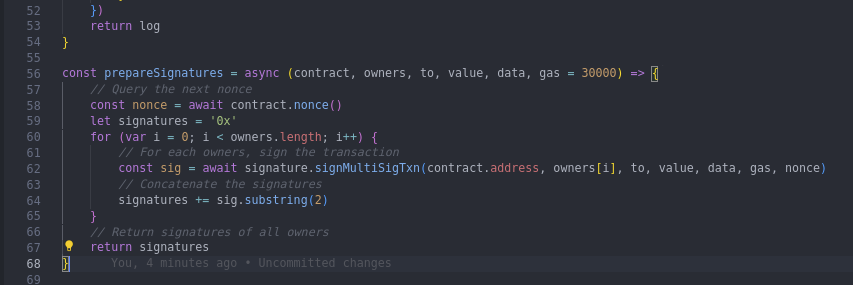
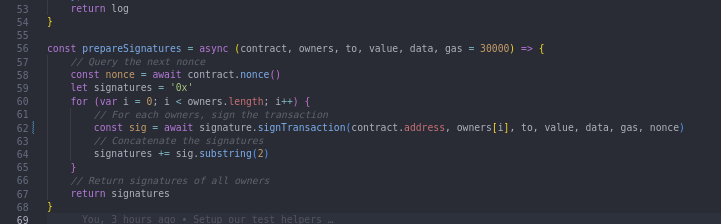
add write tests and revert tests

diff --git a/blog/03-05-2023-how-to-write-a-multi-signatures-contract-on-celo-using-hardhat-part-2-2/how-to-write-a-multi-signatures-contract-on-celo-using-hardhat-part-2-2.md b/blog/03-05-2023-how-to-write-a-multi-signatures-contract-on-celo-using-hardhat-part-2-2/how-to-write-a-multi-signatures-contract-on-celo-using-hardhat-part-2-2.md
@@ -310,7 +310,7 @@ const prepareSignatures = async (contract, owners, to, value, data, gas = 30000)
     let signatures = '0x'
     for (var i = 0; i < owners.length; i++) {
         // For each owners, sign the transaction
-        const sig = await signature.signMultiSigTxn(contract.address, owners[i], to, value, data, gas, nonce)
+        const sig = await signature.signTransaction(contract.address, owners[i], to, value, data, gas, nonce)
         // Concatenate the signatures
         signatures += sig.substring(2)
     }
@@ -684,6 +684,89 @@ npx hardhat test
 Doing so, we should have the following result:
 
 ![Run tests again](./images/npx_hardhat_test_part3.png)
+
+### Add the first write function test
+
+Now let's add the first test for a write function. We so going back to the `test/CeloMultiSig.test.js` file and add the following code:
+
+```javascript
+  it('Can add a new owner', async function () {
+    await Helper.test.addOwner(contract, owner01, [owner01, owner02, owner03], user01.address, undefined, undefined, ['OwnerAdded'])
+  })
+
+  it('Can add a new owner and then use it to sign a new transaction replaceOwner', async function () {
+    await Helper.test.addOwner(contract, owner01, [owner01, owner02, owner03], user01.address, undefined, undefined, [
+      'OwnerAdded',
+    ])
+    await Helper.test.replaceOwner(contract, owner01, [user01, owner02, owner03], user02.address, owner01.address, undefined, undefined, ['OwnerRemoved', 'OwnerAdded'])
+  })
+
+  it('Can add a new owner and then use it to sign a new transaction changeThreshold', async function () {
+    await Helper.test.addOwner(contract, owner01, [owner01, owner02, owner03], user01.address, undefined, undefined, ['OwnerAdded'])
+    await Helper.test.changeThreshold(contract, owner01, [user01, owner02, owner03], 3, undefined, undefined, ['ThresholdChanged'])
+  })
+
+  it('Can add a new owner and then use it to sign a new transaction removeOwner', async function () {
+    await Helper.test.addOwner(contract, owner01, [owner01, owner02, owner03], user01.address, undefined, undefined, ['OwnerAdded'])
+    await Helper.test.removeOwner(contract, owner01, [user01, owner02, owner03], owner01.address, undefined, undefined, ['OwnerRemoved'])
+  })
+```
+
+The result should look like this:
+
+![Add the first write function test](./images/build_test_file_part3.png)
+
+```bash
+npx hardhat test
+```
+
+Doing so, we should have the following result:
+
+![Run tests again](./images/npx_hardhat_test_part4.png)
+
+### Add tests expecting failures
+
+Time to add some tests expecting the transaction to fail. So going back to the `test/CeloMultiSig.test.js` file and add the following code:
+
+```javascript
+  it('Cannot add a new owner with just 10k gas', async function () {
+    await Helper.test.addOwner(contract, owner01, [owner01, owner02, owner03], user01.address, 10000, Helper.errors.NOT_ENOUGH_GAS)
+  })
+
+  it('Cannot add a new owner with 3x the signature of owner01', async function () {
+    await Helper.test.addOwner(contract, owner01, [owner01, owner01, owner01], user01.address, 30000, Helper.errors.OWNER_ALREADY_SIGNED
+    )
+  })
+
+  it('Cannot remove all owners', async function () {
+    await Helper.test.removeOwner(contract, owner01, [owner02, owner03], owner01.address, undefined, undefined, ['OwnerRemoved'])
+    await Helper.test.removeOwner(contract, owner02, [owner02, owner03], owner03.address, undefined, Helper.errors.OWNER_COUNT_BELOW_THRESHOLD, ['TransactionFailed'])
+    await Helper.test.removeOwner(contract, owner03, [owner02, owner03], owner02.address, undefined, Helper.errors.OWNER_COUNT_BELOW_THRESHOLD, ['TransactionFailed'])
+  })
+
+  it('Cannot reuse a signature', async function () {
+    const data = contract.interface.encodeFunctionData('addOwner(address)', [user02.address])
+    const signatures = await Helper.test.prepareSignatures(contract, [owner01, owner02], contract.address, 0, data)
+    await Helper.test.execTransaction(contract, owner01, [owner01, owner02], contract.address, 0, data, Helper.DEFAULT_GAS, undefined, ['OwnerAdded'], signatures)
+    await Helper.test.execTransaction(contract, owner01, [owner01, owner02], contract.address, 0, data, Helper.DEFAULT_GAS, Helper.errors.INVALID_OWNER, undefined, signatures)
+  })
+```
+
+The result should look like this:
+
+![Add tests expecting failures](./images/build_test_file_part4.png)
+
+You can see that in these test, we use the errors object from the `Helper` object to pass to our test helper function the error message we expect to be thrown by the contract.
+
+We can now run the tests again using the following command:
+
+```bash
+npx hardhat test
+```
+
+Doing so, we should have the following result:
+
+![Run tests again](./images/npx_hardhat_test_part5.png)
 
 ## Deploy the Multi-Signature Contract on Celo Alfajores Testnet
 
